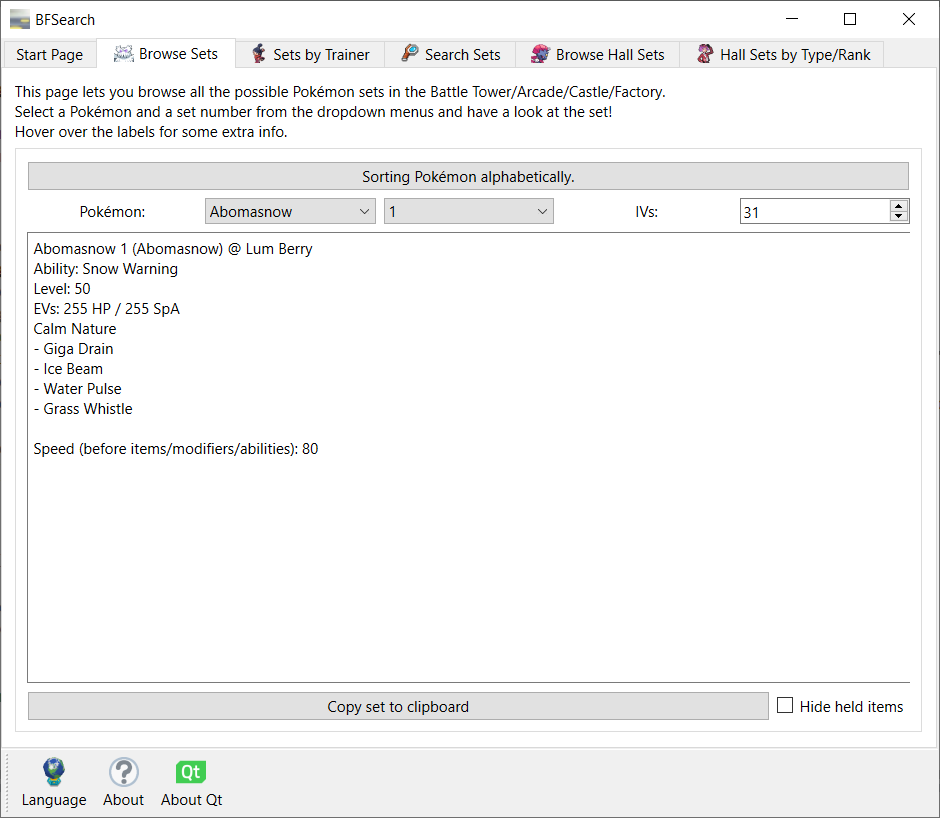
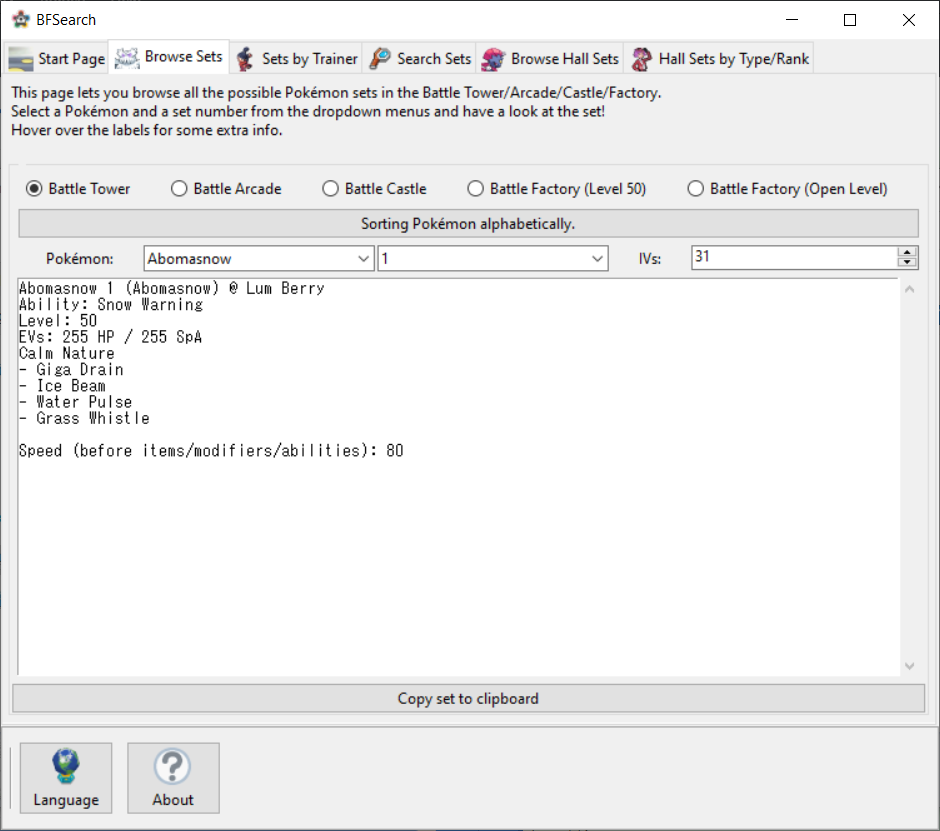
update readme
-update readme
-update screenshots for tkinter

diff --git a/README.md b/README.md
@@ -3,15 +3,15 @@
 
 # Features
 Click to see a screenshot.  
- - [Browse through all possible sets you can face in the Battle Tower/Arcade/Castle/Factory.](https://raw.githubusercontent.com/connor135246/BFSearch/main/manual/browse.png)  
+ - [Browse through all possible sets you can face in the Battle Tower/Arcade/Castle/Factory.](https://raw.githubusercontent.com/connor135246/BFSearch/tkinter/manual/browse.png)  
  
- - [Organize the individual Pokemon you can face in the Battle Tower/Arcade/Castle by battle number and trainer.](https://raw.githubusercontent.com/connor135246/BFSearch/main/manual/trainers.png)  
+ - [View individual Pokemon you can face in the Battle Tower/Arcade/Castle/Factory organized by battle number and trainer.](https://raw.githubusercontent.com/connor135246/BFSearch/tkinter/manual/trainers.png)  
  
- - [Search through each individual Pokemon you can face in the Battle Tower/Arcade/Castle by various metrics. Find out exactly what set you're facing based on the trainer, or just take a look at every set that learns Explosion.](https://raw.githubusercontent.com/connor135246/BFSearch/main/manual/search.png)  
+ - [Search through each individual Pokemon you can face in the Battle Tower/Arcade/Castle/Factory by various metrics. Find out exactly what set you're facing, or just take a look at every set that learns Explosion.](https://raw.githubusercontent.com/connor135246/BFSearch/tkinter/manual/search.png)  
  
- - [Browse through all possible sets you can face in the Battle Hall.](https://raw.githubusercontent.com/connor135246/BFSearch/main/manual/browsehall.png)  
+ - [Browse through all possible sets you can face in the Battle Hall.](https://raw.githubusercontent.com/connor135246/BFSearch/tkinter/manual/browsehall.png)  
  
- - [Organize the individual Pokemon you can face in the Battle Hall by the Type and Rank they appear at.](https://raw.githubusercontent.com/connor135246/BFSearch/main/manual/hallcalc.png)  
+ - [View individual Pokemon you can face in the Battle Hall organized by the Type and Rank they appear at.](https://raw.githubusercontent.com/connor135246/BFSearch/tkinter/manual/hallcalc.png)  
  
 
 # Data Sources
@@ -21,11 +21,12 @@ Click to see a screenshot.
  - [Battle Hall sets](https://www.smogon.com/forums/threads/platinum-hg-ss-battle-frontier-and-dp-battle-tower-records.52858/page-2#post-1850704)  
  - [Battle Hall type/rank info](https://bulbapedia.bulbagarden.net/wiki/Battle_Hall)  
 
-## Errors
+## Errors / Missing Data
  If you know of any errors in the source data used, please let me know!  
- 
- Known Errors:  
+  
  - **Battle Hall Flareon** - Unlike every other Pokemon in the Battle Frontier, Battle Hall Flareon does not have 510 EVs. I think this may be an error in the source data, but I don't know the true EV spread. If you know the truth about Battle Hall Flareon, please let me know!  
+
+ - **Factory Head Thorton** - I can't seem to find any information on the possible sets that Factory Head Thorton uses in his battles. If you know his possible sets, please let me know!  
 
 # Versions
  Python 3.8.2  
